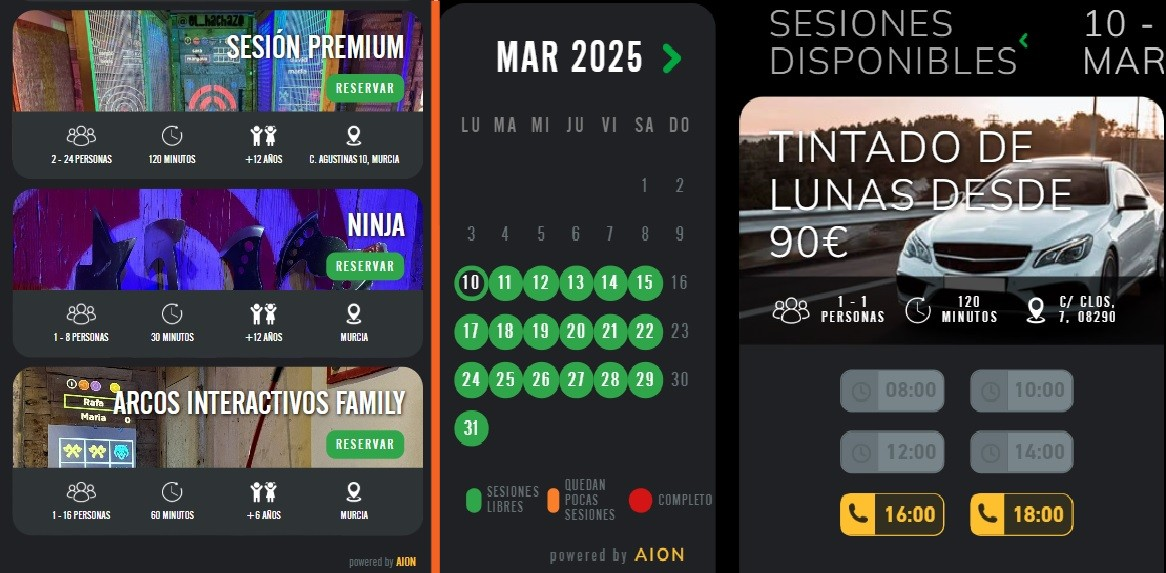
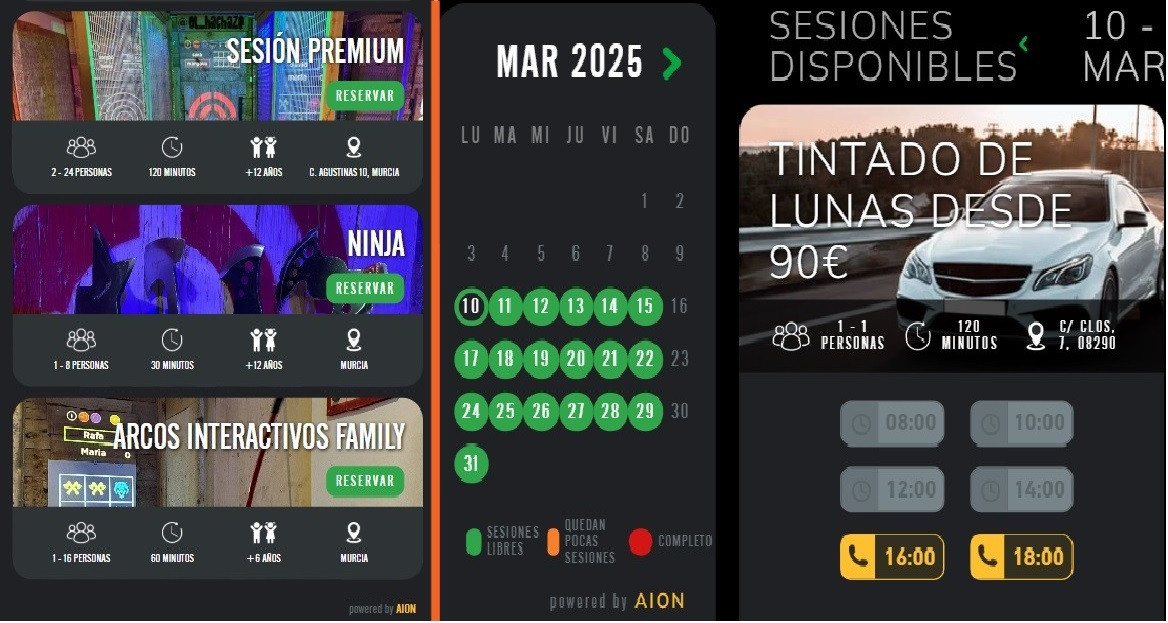
Arregladas imagenes seccion siguiente nivel

diff --git a/proyecto_aion_tailwind/index.html b/proyecto_aion_tailwind/index.html
@@ -193,11 +193,11 @@
                 <!-- Contenedor donde se mostrará el contenido en escritorio -->
                 <div class="w-1/2 bg-white rounded-lg shadow-lg opacity-0 transform translate-x-full transition-all duration-700 ease-in-out hidden sm:block right-card flex-col justify-center p-4 max-h-screen overflow-hidden" id="texto-seleccionado">
                     <h3 class="text-2xl font-semibold text-gray-600" id="titulo-texto"></h3>
-                    <p id="descripcion-texto" class="text-base mt-4"></p>
+                    <p id="descripcion-texto" class="text-base mt-4 mb-4"></p>
                 
                     <!-- Contenedor para la imagen ajustada -->
                     <div class="relative w-full h-auto overflow-hidden rounded-lg">
-                        <img alt="Imagen descriptiva" id="imagen-texto" class="w-full h-auto object-cover mx-auto">
+                        <img alt="Imagen descriptiva" id="imagen-texto" class="w-full h-auto mx-auto imagen-text">
                     </div>
                 </div>              
             </div>

diff --git a/proyecto_aion_tailwind/styles.css b/proyecto_aion_tailwind/styles.css
@@ -218,21 +218,20 @@ section {
 }
 
 /* Ajuste de la imagen para ocupar siempre la altura máxima */
-#imagen-texto {
+.imagen-text {
     width: 100%;
     height: 100%;
-    object-fit: cover;
+    object-fit: contain;
     object-position: center;
     border-radius: 8px;
-    margin-top: 16px;
     position: absolute;
     top: 0;
     left: 0;
     right: 0;
     bottom: 0;
     z-index: 1;
-    mask-image: linear-gradient(to bottom, rgba(0, 0, 0, 0) 0%, rgba(0, 0, 0, 1) 25px);
-    -webkit-mask-image: linear-gradient(to bottom, rgba(0, 0, 0, 0) 0%, rgba(0, 0, 0, 1) 25px);
+    /* mask-image: linear-gradient(to bottom, rgba(0, 0, 0, 0) 0%, rgba(0, 0, 0, 1) 25px);
+    -webkit-mask-image: linear-gradient(to bottom, rgba(0, 0, 0, 0) 0%, rgba(0, 0, 0, 1) 25px); */
 }
 
 /* Asegúrate de que el contenedor de la imagen tenga el comportamiento adecuado */
